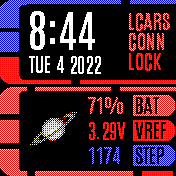
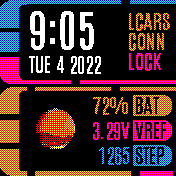
Minor design improvements

diff --git a/apps/lcars/lcars.app.js b/apps/lcars/lcars.app.js
@@ -148,12 +148,13 @@ function printData(key, y, c){
 
   g.setColor(c);
   g.fillRect(133, y-2, 165 ,y+18);
-  g.fillCircle(164, y+8, 10);
+  g.fillCircle(161, y+8, 10);
   g.setColor(cBlack);
   g.drawString(text, 135, y);
 
   g.setColor(c);
-  g.drawString(value, 88, y);
+  g.setFontAlign(1,-1,0);
+  g.drawString(value, 130, y);
 }
 
 function drawHorizontalBgLine(color, x1, x2, y, h){
